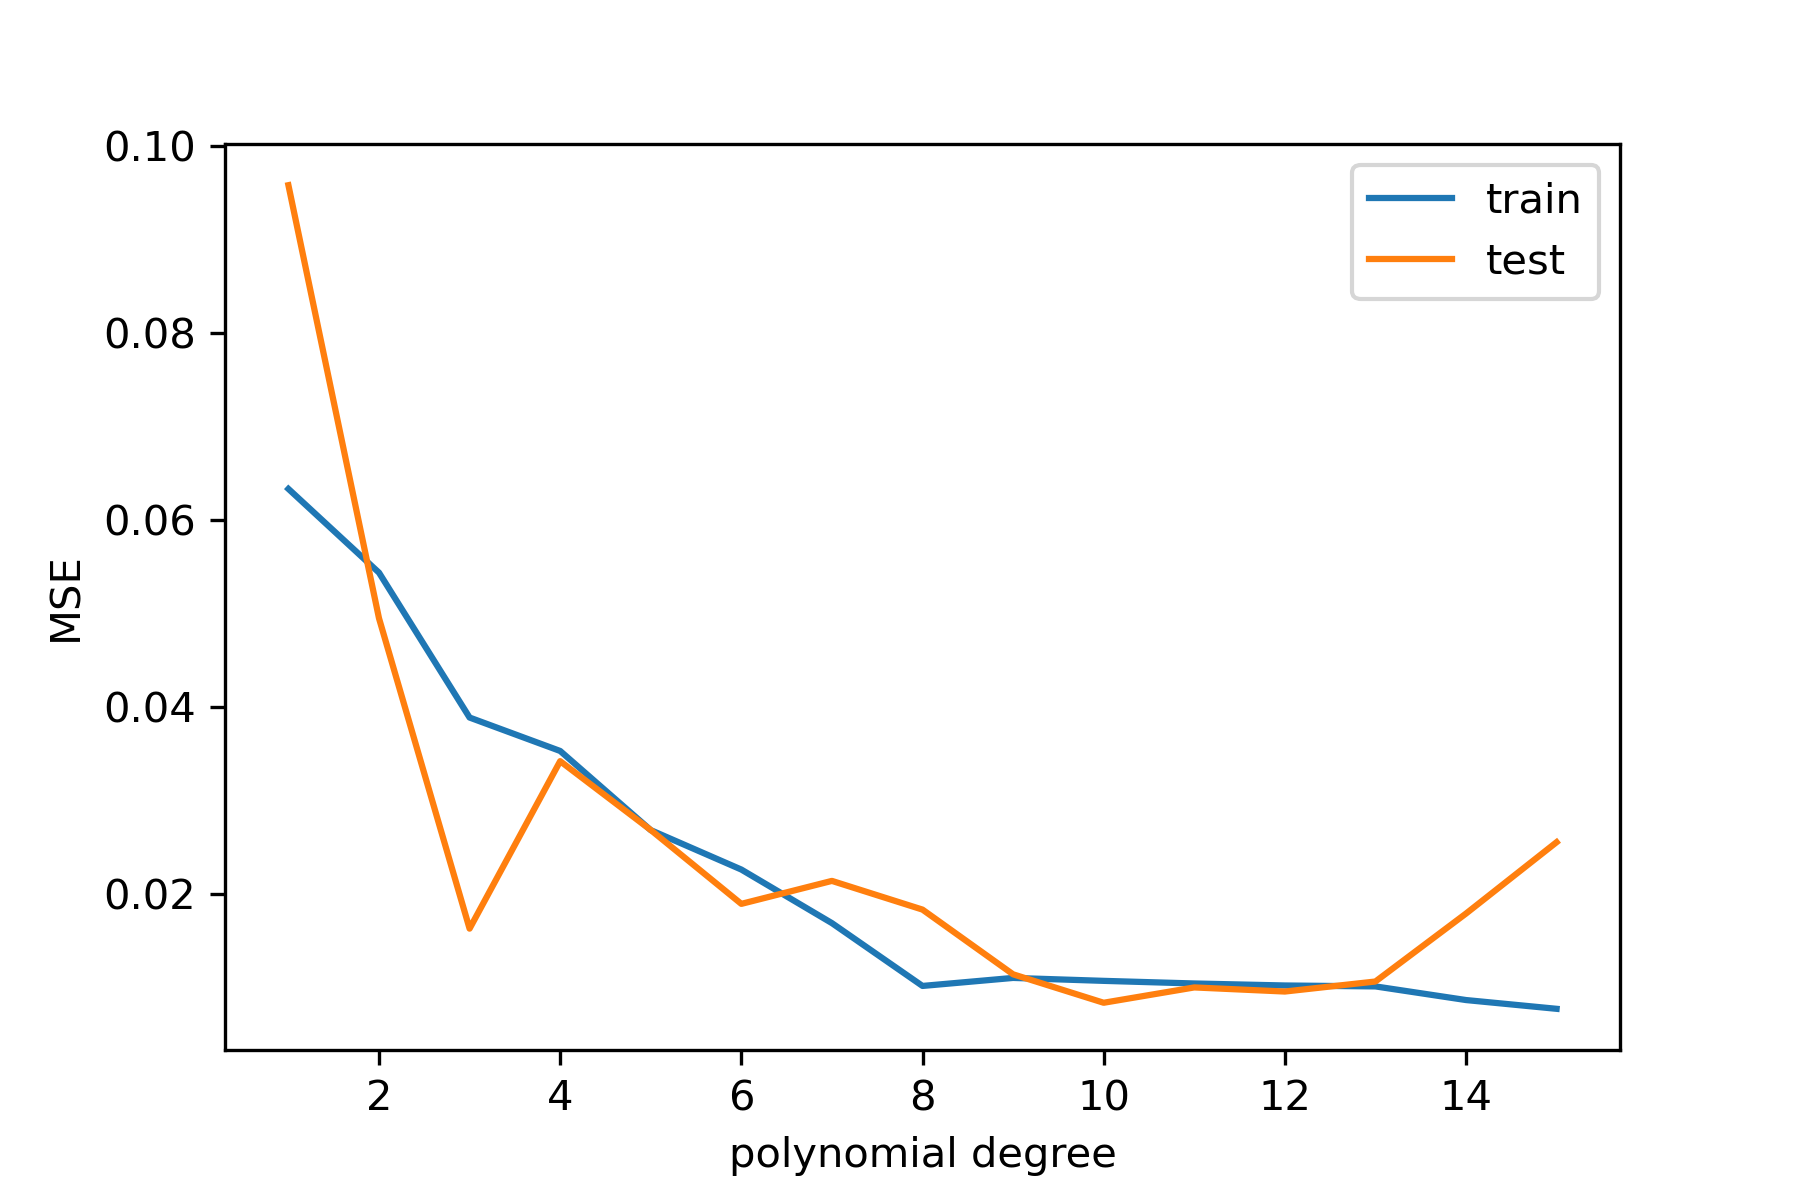
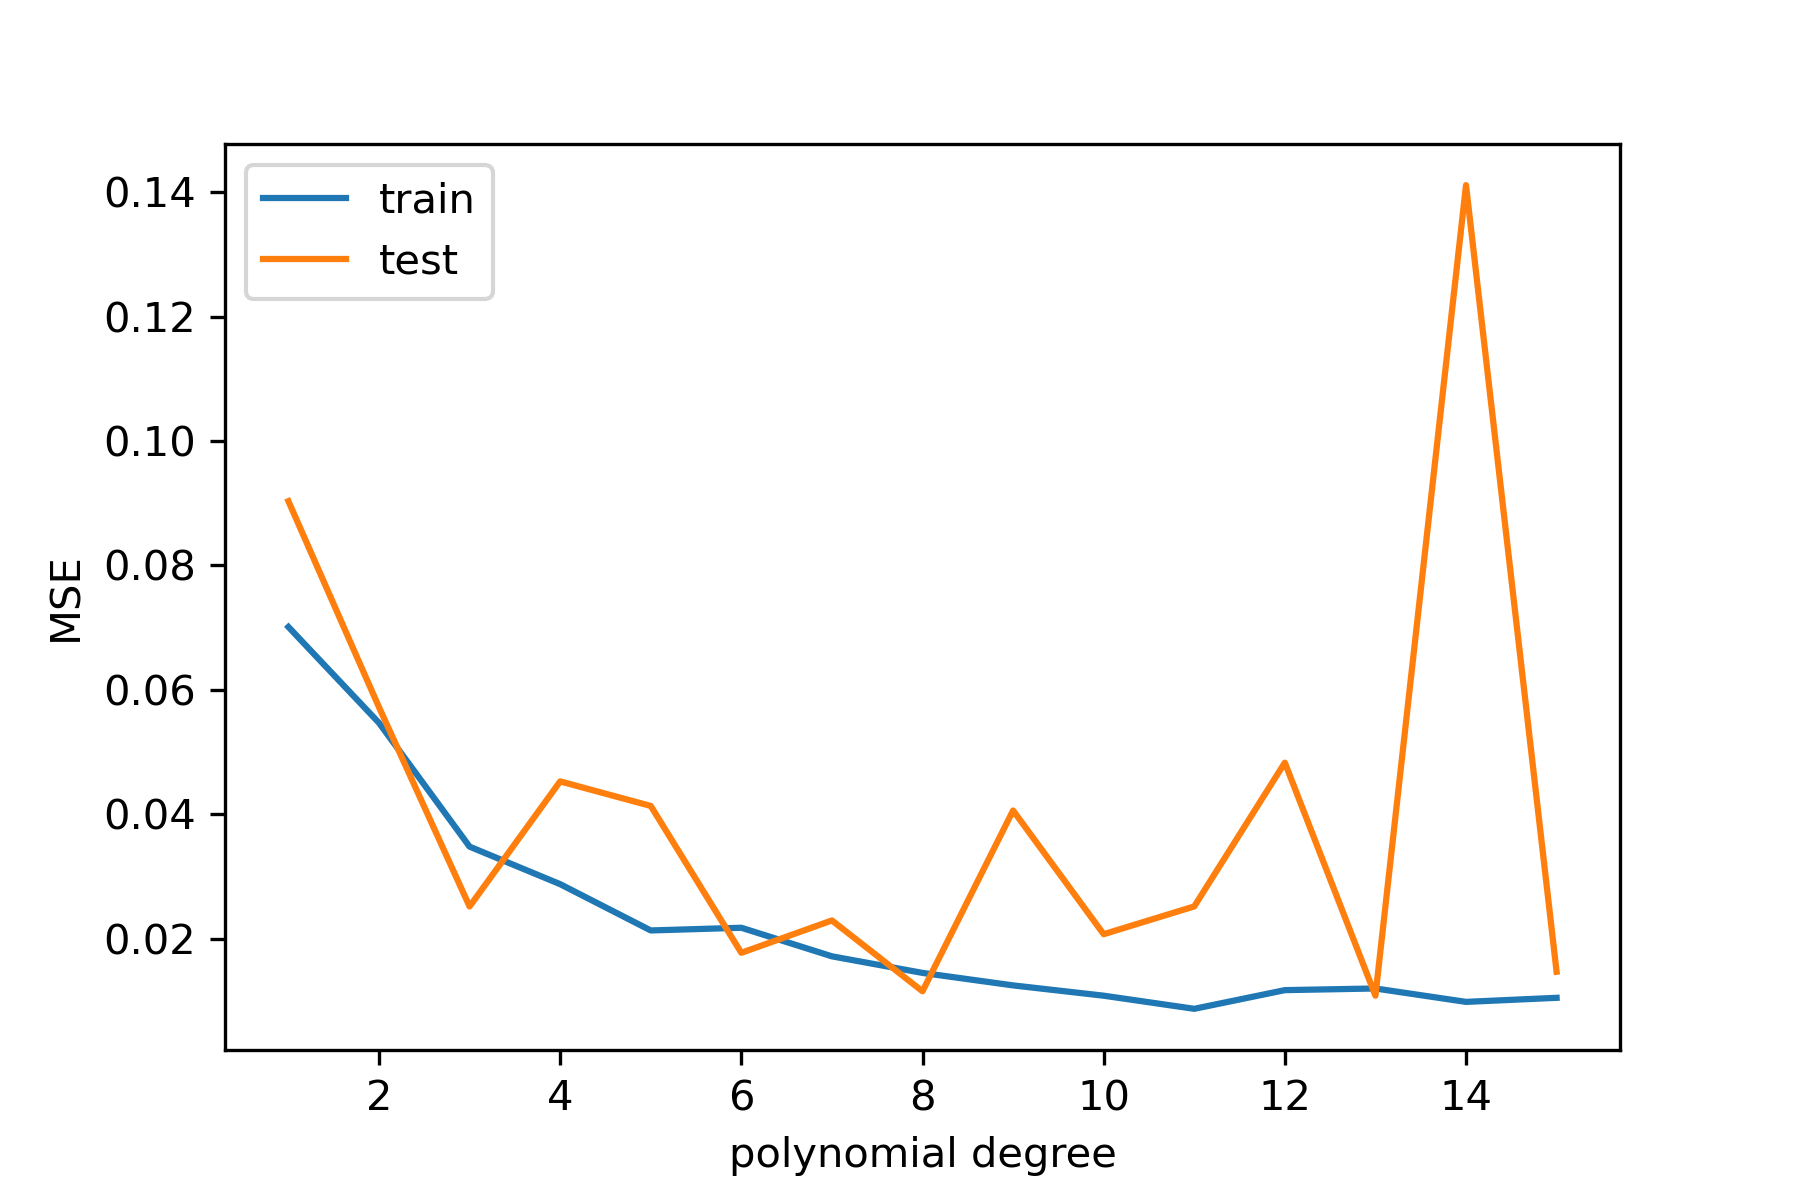
added all code

diff --git a/week_36_exercise_2.py b/week_36_exercise_2.py
@@ -1,0 +1,172 @@
+"""
+Week 36, exercise 2, with code from exercise 3, week 35 as a basis.
+
+Compute the mean squared error for ordinary least squares and 
+Ridge regression first for a polynomial of degree five with data points 
+n = 100 and five selected values of lambda = [0.0001, 0.001, 0.01, 0.1, 1.0]. 
+Compute thereafter the mean squared error for the same values of lambda
+for polynomials of degree ten and 15. 
+Discuss your results for the training MSE and test MSE with 
+Ridge regression and ordinary least squares.
+"""
+
+
+import numpy as np
+import matplotlib.pyplot as plt
+from sklearn.linear_model import LinearRegression
+from sklearn.model_selection import train_test_split
+from sklearn.metrics import mean_squared_error
+
+# for plots:
+plt.rcParams['figure.dpi'] = 300
+plt.rcParams['savefig.dpi'] = 300
+
+# Functions
+def get_design_matrix(x, pol_deg):
+    """Creates a design matrix for fitting polynomials of degree pol_deg"""
+    X = np.ones((len(x), pol_deg+1))
+    for p in range(0, pol_deg+1):
+        X[:,p] = x.flatten()**p
+    return X
+
+def get_design_matrix_no_intercept(x, pol_deg):
+    """Creates a design matrix without an intercept column for 
+    fitting polynomials of degree pol_deg"""
+    X = np.zeros((len(x), pol_deg-1)) # no intercept column
+    for p in range(1, pol_deg):
+        X[:,p-1] = x.flatten()**p
+        
+    return X
+
+def get_beta_OLS(X, y):
+    beta = np.linalg.inv(X.T @ X) @ X.T @ y
+    return beta
+
+def get_beta_ridge(X, y, lambd):
+    p = np.shape(X)[1] 
+    I = I = np.eye(p,p)
+    beta = np.linalg.pinv(X.T @ X+lambd*I) @ X.T @ y
+    return beta
+
+def get_MSE(y, y_pred):
+    mean_SE = np.sum((y-y_pred)**2)/len(y)
+    return mean_SE
+
+def get_R2(y_true, y_pred):
+    y_mean = np.mean(y_true)
+    R2 = 1-(np.sum((y_true-y_pred)**2)/(np.sum((y_true-y_mean)**2)))
+    return R2
+
+np.random.seed()
+n = 100
+# Make data set:
+x = np.linspace(-3, 3, n).reshape(-1, 1)
+y = np.exp(-x**2) + 1.5 * np.exp(-(x-2)**2)+ np.random.normal(0, 0.1, x.shape)
+# Plot data:
+plt.plot(x, y, 'ko')
+plt.xlabel(r'$x$')
+plt.ylabel(r'$y$')
+plt.title(r'Data for exercise 2')
+plt.savefig('week_36_exercise_2_data.png')
+
+
+MSE_train_list_OLS = []
+MSE_test_list_OLS = []
+
+MSE_train_list_ridge = []
+MSE_test_list_ridge = []
+
+p_list = []
+#up to polynomial degree 15: 
+poly_range = range(5,15+1, 5)
+for i in range(len(poly_range)): #5, 10, 15 #CREATE FUNCTION INSTEAD!!! And call function in loop!
+    p = poly_range[i] #polynomial degree
+    # set up a design matrix without an intercept column:
+    X = get_design_matrix_no_intercept(x, p)
+    # split data set in training and test data:
+    X_train, X_test, y_train, y_test = train_test_split(X, y, test_size=0.2)
+    # center design matrix: 
+    X_train_mean = np.mean(X_train,axis=0)
+    #Center by removing mean from each feature
+    X_train_scaled = X_train - X_train_mean 
+    X_test_scaled = X_test - X_train_mean
+    #The model intercept (called y_scaler) is given by the mean of the 
+    # target variable (IF X is centered).
+    #Remove the intercept from the training data:
+    y_scaler = np.mean(y_train)           
+    y_train_scaled = y_train - y_scaler 
+    
+    y_test_scaled = y_test - y_scaler #??
+    #-----------OLS---------------------
+    # matrix inversion to find OLS beta:
+    beta_OLS = get_beta_OLS(X_train_scaled, y_train_scaled)
+    # make prediction and add intercept:
+    y_pred_OLS = X_train_scaled @ beta_OLS + y_scaler
+    MSE_train_OLS = mean_squared_error(y_train_scaled, y_pred_OLS)#get_MSE(y_train, y_pred)
+    #test model and add intercept:
+    y_pred_test_OLS = X_test_scaled @ beta_OLS + y_scaler
+    MSE_test_OLS = mean_squared_error(y_test_scaled, y_pred_test_OLS)#get_MSE(y_test, y_pred)
+    #append lists for plotting
+    MSE_train_list_OLS.append(MSE_train_OLS)
+    MSE_test_list_OLS.append(MSE_test_OLS)
+    p_list.append(p)
+    
+    print(f'Polynomial degree: {p}')
+    print('OLS:')
+    print(f'MSE test: {MSE_test_OLS}')
+    print(f'MSE train: {MSE_train_OLS}')
+    
+
+    plt.title('Polynomial fits of degree p')
+    intercept = np.mean(y_scaler - X_train_mean @ beta_OLS)
+    y_plot = X @ beta_OLS + intercept#y_scaler
+    plt.plot(X[:,0], y_plot, '--',label=f'p = {p}')
+    plt.legend()
+    #----------------Ridge---------------------
+    # Decide which values of lambda to use
+    lambdas = np.logspace(-4, 0, 5)
+    temp_test_MSE_list = []
+    temp_train_MSE_list = []
+    print('-----------------------------------')
+    print('Ridge:')
+    for j in range(len(lambdas)):
+        lmbd = lambdas[j]
+        print(f'Lambda = {lmbd}')
+        beta_ridge = get_beta_ridge(X_train_scaled, y_train_scaled, lmbd)
+        intercept_ = y_scaler - X_train_mean@beta_ridge #The intercept can be shifted so the model can predict on unc
+        # Add intercept to prediction
+        y_pred_test_ridge = X_test_scaled @ beta_ridge + y_scaler
+        MSE_test_ridge = get_MSE(y_test_scaled, y_pred_test_ridge)
+        #fix this, iverwritten for each p
+        temp_test_MSE_list.append(MSE_test_ridge)
+        
+        y_pred_train_ridge = X_train_scaled @ beta_ridge + y_scaler
+        MSE_train_ridge = get_MSE(y_train_scaled, y_pred_train_ridge)
+        #fix this, iverwritten for each p
+        temp_train_MSE_list.append(MSE_train_ridge)
+        # For which lambda do you find an optimal MSE: 
+        #print(f'Lambda: {lmbd}')
+        #print(f'beta: {beta_ridge}')
+        #print(f'MSE: {MSE_test_ridge}')
+        print(f'MSE test: {MSE_test_ridge}')
+        print(f'MSE train: {MSE_train_ridge}')
+    MSE_test_list_ridge.append(temp_test_MSE_list)
+    MSE_train_list_ridge.append(temp_train_MSE_list)
+    print('-----------------------------------')
+# For which polynomial degree do you find an optimal MSE:
+i_min = np.argmin(np.array(MSE_test_list_OLS))
+p_min = p_list[i_min]
+print(f'Smallest MSE in test data for polynomial degree {p_min}')
+
+
+
+
+plt.savefig('week_36_2_polyfits.png')
+#plot: 
+plt.figure()
+plt.plot(p_list, MSE_train_list_OLS, label='train')
+plt.plot(p_list, MSE_test_list_OLS, label='test')
+plt.xlabel('polynomial degree')
+plt.ylabel('MSE')
+plt.legend()
+plt.savefig('week_36_MSE_p.png')
